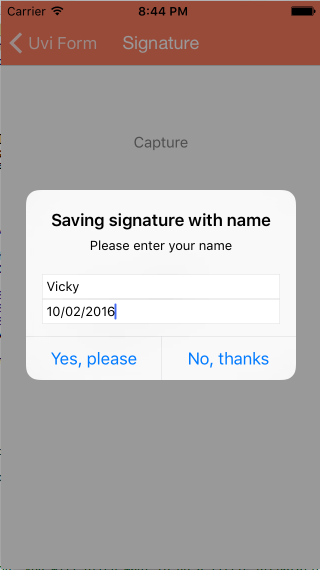
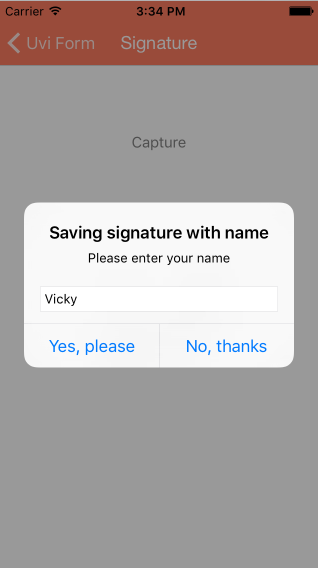
Able to get the current date and add it in signature.

diff --git a/Examples/Swift/signature/signature/CaptureSignatureViewController.swift b/Examples/Swift/signature/signature/CaptureSignatureViewController.swift
@@ -32,13 +32,6 @@ class CaptureSignatureViewController: UIViewController {
             textField.placeholder = "Name";
         }
         
-        //Add a text field
-        alertView.addTextFieldWithConfigurationHandler { textField -> Void in
-            //TextField configuration
-            textField.textColor = UIColor.blackColor()
-             textField.placeholder = "Date(DD/MM/YYYY)";
-        }
-        
         //Create and add the Cancel action
         let cancelAction: UIAlertAction = UIAlertAction(title: "No, thanks", style: .Cancel) { action -> Void in
             //Do some stuff
@@ -55,6 +48,11 @@ class CaptureSignatureViewController: UIViewController {
             self.username = textField.text;
             let datetextField:UITextField = (alertView.textFields?[1])!;
             self.signedDate  = datetextField.text;
+            
+            let dateFormatter:NSDateFormatter = NSDateFormatter();
+            dateFormatter.dateFormat = "dd/MM/yyyy"
+            self.signedDate  = dateFormatter.stringFromDate(NSDate());
+            
             if(self.username != nil && !self.username!.isEqualToString("") && self.signedDate != nil  && !self.signedDate!.isEqualToString(""))
             {
                 alertView.dismissViewControllerAnimated(true, completion: nil);

diff --git a/Examples/Objective-C/signature/signature/CaptureSignatureViewController.m b/Examples/Objective-C/signature/signature/CaptureSignatureViewController.m
@@ -39,11 +39,6 @@
 
     }];
     
-    [alertView addTextFieldWithConfigurationHandler:^(UITextField *textField) {
-        textField.placeholder = @"Date(DD/MM/YYYY)";
-        
-    }];
-    
     UIAlertAction* yesButton = [UIAlertAction
                                 actionWithTitle:@"Yes, please"
                                 style:UIAlertActionStyleDefault
@@ -52,10 +47,13 @@
                                     //Handel your yes please button action here
                                     UITextField *textField = alertView.textFields[0];
                                     userName = textField.text;
-                                    UITextField *datetextField = alertView.textFields[1];
-                                    signedDate  = datetextField.text;
+                                    
+                                    NSDateFormatter *dateFormatter=[[NSDateFormatter alloc] init];
+                                    [dateFormatter setDateFormat:@"dd/MM/yyyy"];
+                                    signedDate  = [dateFormatter stringFromDate:[NSDate date]];
                                     if(userName != nil && ![userName isEqualToString:@""] && signedDate != nil  && ![signedDate isEqualToString:@""])
                                     {
+                                        [alertView dismissViewControllerAnimated:YES completion:nil];
                                         [self startSampleProcess];
                                         [self.navigationController popToRootViewControllerAnimated:YES];
                                     }
@@ -82,10 +80,11 @@
     UIGraphicsBeginImageContextWithOptions(view.bounds.size, view.opaque, 0.0);
     [view.layer renderInContext:UIGraphicsGetCurrentContext()];
     
-    NSDictionary *attributes = @{NSFontAttributeName           : [UIFont systemFontOfSize:17],
+    // Setup the font specific variables
+    NSDictionary *attributes = @{NSFontAttributeName           : [UIFont fontWithName:@"Helvetica" size:12],
                                  NSStrokeWidthAttributeName    : @(0),
                                  NSStrokeColorAttributeName    : [UIColor blackColor]};
-    [text drawAtPoint:CGPointMake(view.frame.origin.x+20 , view.frame.size.height-30) withAttributes:attributes];
+    [text drawAtPoint:CGPointMake(view.frame.origin.x+10 , view.frame.size.height-25) withAttributes:attributes];
     
     UIImage * img = UIGraphicsGetImageFromCurrentImageContext();
     UIGraphicsEndImageContext();
